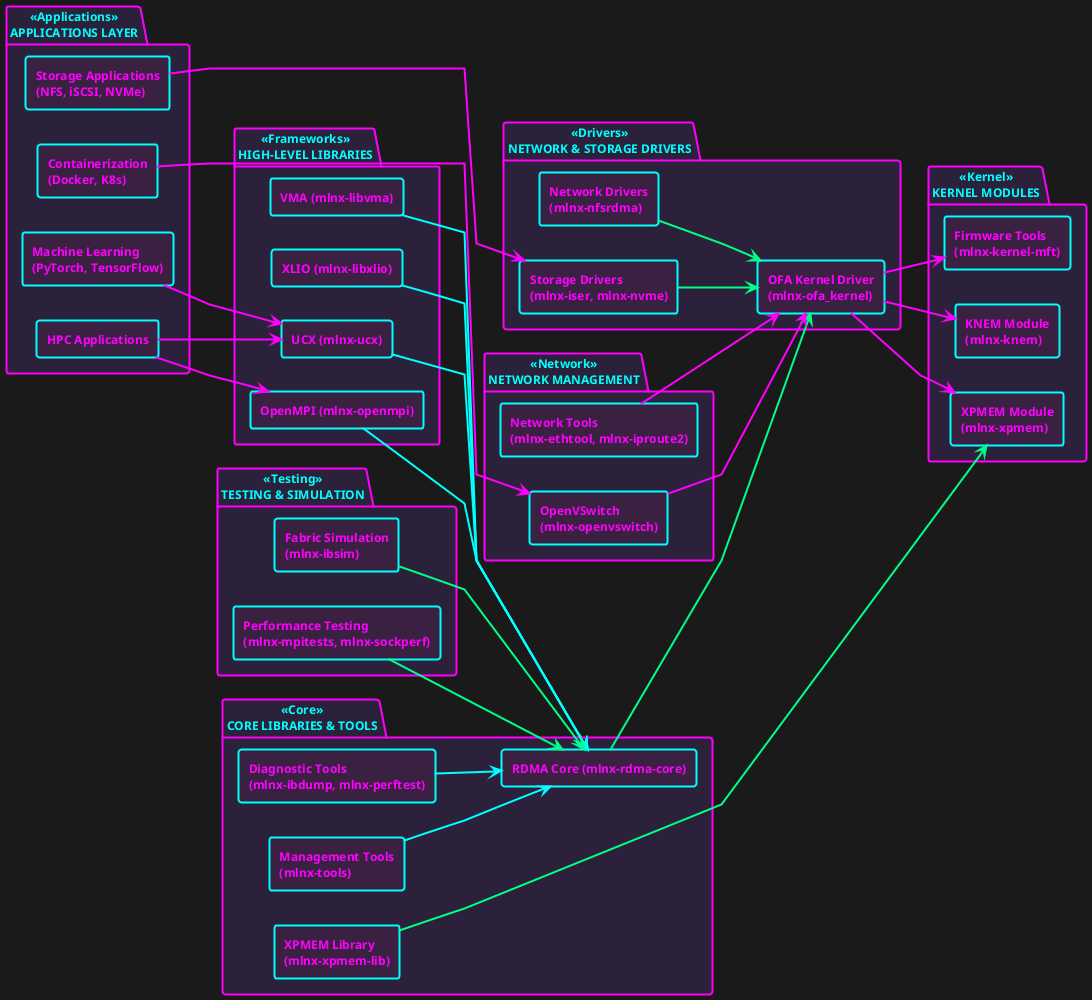
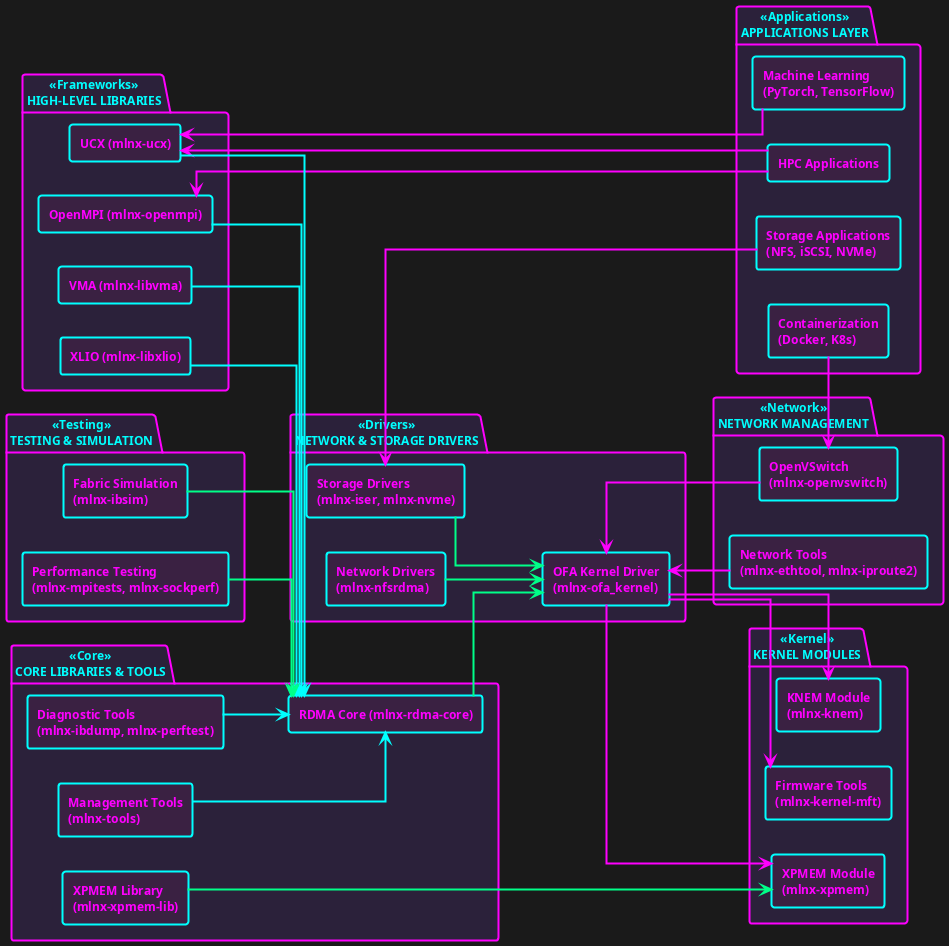
update diagram

diff --git a/README.md b/README.md
@@ -14,7 +14,7 @@ Part of an effort to bring first-class HPC support for Arch.
 'top to bottom direction
 left to right direction
 
-skinparam linetype polyline
+skinparam linetype ortho
 
 skinparam componentStyle rectangle
 skinparam backgroundColor #1a1a1a
@@ -92,11 +92,11 @@ package "<<Network>>\nNETWORK MANAGEMENT" as network {
 }
 
 ' Relationships with neon colors
-hpc -[#ff00ff]-> openmpi
-hpc -[#ff00ff]-> ucx
-ml -[#ff00ff]-> ucx
-storage -[#ff00ff]-> storage_drivers
-containers -[#ff00ff]-> ovs
+hpc -[#ff00ff]left-> openmpi
+hpc -[#ff00ff]left-> ucx
+ml -[#ff00ff]left-> ucx
+storage -[#ff00ff]left-> storage_drivers
+containers -[#ff00ff]left-> ovs
 
 openmpi -[#00ffff]-> rdma_core
 ucx -[#00ffff]-> rdma_core
@@ -118,8 +118,8 @@ xpmem_lib -[#00ff88]-> xpmem
 perf_test -[#00ff88]-> rdma_core
 ibsim -[#00ff88]-> rdma_core
 
-ovs -[#ff00ff]-> ofa
-nettools -[#ff00ff]-> ofa
+ovs -[#ff00ff]up-> ofa
+nettools -[#ff00ff]up-> ofa
 
 @enduml
 ```
